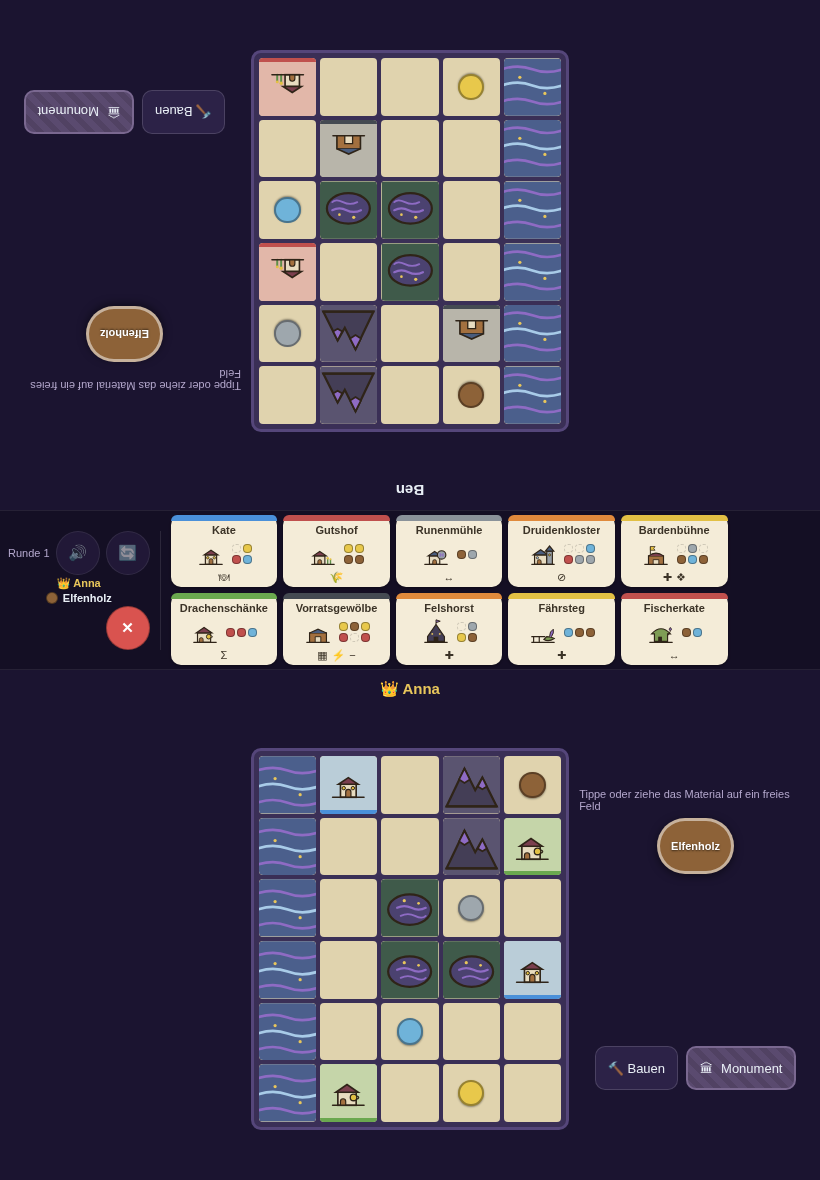
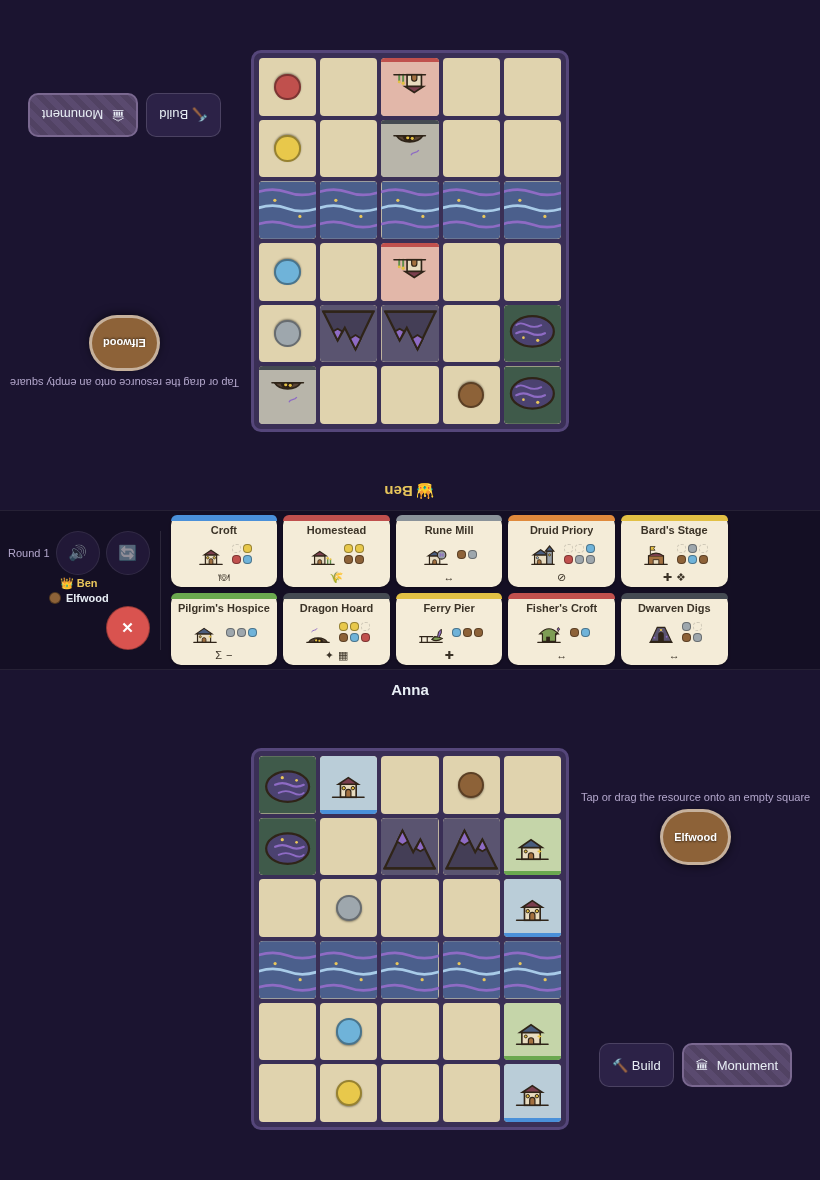
Englische README-Bilder, „Alice-Modus" heißt Detail-Modus (v4.2.0) (#96)
Zwei Sachen, die nicht zusammenpassten.

BILDER AUF ENGLISCH

Das README ist englisch, die Screenshots waren deutsch. scripts/shots.mjs
läuft jetzt mit locale 'en-US' und sucht die Bedienelemente über ihre
englischen Beschriftungen. Ein Kommentar im Kopf sagt, dass beides
zusammengehört — wer die Sprache ändert, muss die Beschriftungen mitziehen.

Alle sechs Bilder neu erzeugt: „Round 1", „Build", „Tap or drag the resource
onto an empty square", und die Auslage heißt Croft, Wishing Well,
Dragon Hoard — die Namen der Standard-Welt. Bildunterschriften im README
nachgezogen (die Anlieger-Karten im Landpartie-Bild heißen jetzt Ferry Pier,
Fisher's Croft, Dwarven Digs).

ALICE-MODUS → DETAIL-MODUS

Der Name war eine Anspielung, die niemandem etwas sagt; „Detail-Modus"
beschreibt, was der Schalter tut. Umbenannt in allen 8 Sprachen (inklusive
der Zeile im Lernmodus, die ihn erwähnt), dazu Variablen, CSS-Klassen und
die Selektoren in drei Smoke-Skripten.

Der localStorage-Schlüssel heißt jetzt tinytowns.detailMode. Wer den Modus
eingeschaltet hatte, behält ihn: Fehlt der neue Schlüssel, gilt der alte
(tinytowns.aliceMode), und beim ersten Umschalten wandert die Wahl auf den
neuen Schlüssel — der alte wird entfernt.

Geprüft: 390 Tests, svelte-check, Build, alle drei Smoke-Tests. Neuer
Smoke-Block prüft die Migration: alte Einstellung wirkt, Beschriftung stimmt,
Umschalten schreibt den neuen und räumt den alten Schlüssel weg. Gegenprobe
[…]

diff --git a/src/ui/CardStrip.svelte b/src/ui/CardStrip.svelte
@@ -36,30 +36,34 @@
     return t.trainTunnel;
   });
 
-  // Alice-Modus (Einzelansicht): alle Karten dauerhaft samt Beschreibung offen,
-  // damit niemand jede Karte einzeln antippen muss. Reine Anzeige-Präferenz
-  // dieses Geräts — sie überlebt Reloads im localStorage.
-  const ALICE_KEY = 'tinytowns.aliceMode';
-  let alice = $state(readAlice());
+  // Detail-Modus (Einzelansicht): alle Karten dauerhaft samt Beschreibung
+  // offen, damit niemand jede Karte einzeln antippen muss. Reine
+  // Anzeige-Präferenz dieses Geräts — sie überlebt Reloads im localStorage.
+  const DETAIL_KEY = 'tinytowns.detailMode';
+  /** Frühere Fassungen nannten den Modus „Alice" — alte Wahl weiter achten. */
+  const ALT_KEY = 'tinytowns.aliceMode';
+  let detail = $state(readDetail());
 
-  function readAlice(): boolean {
+  function readDetail(): boolean {
     try {
-      return localStorage.getItem(ALICE_KEY) === '1';
+      const wert = localStorage.getItem(DETAIL_KEY) ?? localStorage.getItem(ALT_KEY);
+      return wert === '1';
     } catch {
       return false;
     }
   }
 
-  function toggleAlice() {
-    alice = !alice;
+  function toggleDetail() {
+    detail = !detail;
     try {
-      localStorage.setItem(ALICE_KEY, alice ? '1' : '0');
+      localStorage.setItem(DETAIL_KEY, detail ? '1' : '0');
+      localStorage.removeItem(ALT_KEY); // ab jetzt gilt nur noch der neue Schlüssel
     } catch {
       // privater Modus — gilt dann nur für diese Sitzung
     }
   }
 
-  const aliceOn = $derived(solo && alice);
+  const detailOn = $derived(solo && detail);
 
   // Kartenauslage um 180° drehen — für die Spieler auf der Gegenseite des
   // Geräts. Reine Anzeige-Präferenz dieses Geräts, überlebt Reloads.
@@ -150,13 +154,13 @@
       <span class="trainWhere">{trainStatus}</span>
     {/if}
     {#if solo}
-      <button class="aliceBtn" class:active={alice} onpointerup={toggleAlice} title={t.aliceModeHint}>
-        📖 <span class="btnLabel">{t.aliceMode}</span>
+      <button class="detailBtn" class:active={detail} onpointerup={toggleDetail} title={t.detailModeHint}>
+        📖 <span class="btnLabel">{t.detailMode}</span>
       </button>
       {#if st.config.solo}
         <!-- Lernmodus: nur im Solospiel, dort führen die Blasen durch die Phasen -->
         <button
-          class="aliceBtn"
+          class="detailBtn"
           class:active={learn.enabled}
           onpointerup={() => learn.toggle()}
           title={t.learn.modeHint}
@@ -169,13 +173,13 @@
          Kopfzeile, nicht neben dem Spielernamen. -->
     <button class="abort quit iconBtn" onpointerup={() => onabort?.()} title={t.abortGame}>✕</button>
   </div>
-  <div class="cards" class:alice={aliceOn} class:flipped={flipped && !solo} class:many={cardIds.length > 8}>
+  <div class="cards" class:detail={detailOn} class:flipped={flipped && !solo} class:many={cardIds.length > 8}>
     {#each cardIds as id}
       <div class="cardWrap">
         <CardMini
           card={catalog[id]}
           compact={compactCards}
-          description={aliceOn ? cardText(catalog[id]) : ''}
+          description={detailOn ? cardText(catalog[id]) : ''}
           onclick={(e) => open(catalog[id], e)}
         />
       </div>
@@ -320,7 +324,7 @@
     .strip.soloStrip.horizontal .cardWrap { width: calc(25% - 5px); }
     /* Mehr als 8 Karten (Monument als 9.): eine Reihe, seitlich scrollbar —
        drei Umbruch-Reihen würden das Brett aus dem Bildschirm schieben */
-    .strip.soloStrip.horizontal .cards.many:not(.alice) {
+    .strip.soloStrip.horizontal .cards.many:not(.detail) {
       flex-wrap: nowrap;
       justify-content: flex-start;
       overflow-x: auto;
@@ -331,7 +335,7 @@
       min-width: 0;
       align-self: stretch;
     }
-    .strip.soloStrip.horizontal .cards.many:not(.alice) .cardWrap {
+    .strip.soloStrip.horizontal .cards.many:not(.detail) .cardWrap {
       flex: 0 0 calc(25% - 5px);
       min-width: 0;
     }
@@ -340,7 +344,7 @@
   /* Tablet-Hochformat (2 Spieler / Einzelansicht): genug Höhe — Karten
      umbrechen lassen statt horizontal zu scrollen */
   @media (orientation: portrait) and (min-height: 900px) {
-    .strip.horizontal .cards:not(.alice) {
+    .strip.horizontal .cards:not(.detail) {
       flex-wrap: wrap;
       justify-content: flex-start;
       row-gap: 6px;
@@ -348,8 +352,8 @@
     }
   }
 
-  /* Alice-Modus: Karten samt Beschreibung dauerhaft offen (Einzelansicht) */
-  .aliceBtn {
+  /* Detail-Modus: Karten samt Beschreibung dauerhaft offen (Einzelansicht) */
+  .detailBtn {
     font-size: var(--fs-xs);
     padding: 3px 10px;
     opacity: 0.7;
@@ -361,12 +365,12 @@
   @media (max-width: 720px), (max-height: 540px) {
     .btnLabel { display: none; }
   }
-  .aliceBtn.active {
+  .detailBtn.active {
     opacity: 1;
     border-color: var(--accent);
     color: var(--accent);
   }
-  .strip.horizontal .cards.alice {
+  .strip.horizontal .cards.detail {
     /* Raster statt Flex: grid-auto-rows 1fr macht alle Karten gleich hoch */
     display: grid;
     grid-template-columns: repeat(4, minmax(0, 1fr));
@@ -381,26 +385,26 @@
        bei Bedarf scrollt das Kartenraster in sich */
     max-height: 36vh;
   }
-  .strip.horizontal .cards.alice .cardWrap {
+  .strip.horizontal .cards.detail .cardWrap {
     width: auto;
     display: flex; /* Karte füllt die Rasterzelle in voller Höhe */
   }
   /* Mehr als 8 Karten (Monument als 9.): 5 Spalten statt 4 — das Raster
      bleibt bei maximal 2 Zeilen und schiebt das Brett nicht aus dem Bild */
-  .strip.horizontal .cards.alice.many {
+  .strip.horizontal .cards.detail.many {
     grid-template-columns: repeat(5, minmax(0, 1fr));
     width: min(100%, 1100px);
   }
   @media (max-width: 720px) and (orientation: portrait) {
     /* Am Handy: zwei Spalten, Leiste fest gedeckelt und in sich scrollbar —
        das Spielbrett darunter muss immer erreichbar bleiben */
-    .strip.soloStrip.horizontal .cards.alice {
+    .strip.soloStrip.horizontal .cards.detail {
       grid-template-columns: repeat(2, minmax(0, 1fr));
       gap: 5px;
       /* Deckel: Der Rest des Bildschirms gehört Brett und Knöpfen. Die Karten
          scrollen in sich — seit touch-action das auch zulässt. */
       max-height: 28vh;
     }
-    .strip.soloStrip.horizontal .cards.alice .cardWrap { width: auto; }
+    .strip.soloStrip.horizontal .cards.detail .cardWrap { width: auto; }
   }
 </style>

diff --git a/src/i18n/fr.ts b/src/i18n/fr.ts
@@ -145,8 +145,8 @@ export const fr: Translation = {
   shareFailed: 'Le partage a échoué',
   playAgain: 'Rejouer',
 
-  aliceMode: 'Mode Alice',
-  aliceModeHint: 'Afficher toutes les cartes avec leur texte en permanence',
+  detailMode: "Mode détaillé",
+  detailModeHint: "Afficher toutes les cartes avec leur texte en permanence",
   flipCards: 'Tourner les cartes pour le côté opposé',
 
   townHallMode: 'Mode Hôtel de ville',
@@ -310,7 +310,7 @@ export const fr: Translation = {
     guestSteps: [
       'Scanne le code QR ou saisis le code du salon, choisis un nom — ta place est attribuée automatiquement.',
       'Tu vois ton plateau en grand, les adversaires en petit ; ton monument est visible pour toi.',
-      '« 📖 Mode Alice » affiche toutes les cartes avec leur texte en permanence.',
+      "« 📖 Mode détaillé » affiche toutes les cartes avec leur texte en permanence.",
       'Absent un instant ou rechargé ? L’appli rejoint automatiquement. Sinon : réveille l’appareil hôte ou fais-y réattribuer la place.'
     ]
   },

diff --git a/src/i18n/es.ts b/src/i18n/es.ts
@@ -145,8 +145,8 @@ export const es: Translation = {
   shareFailed: 'No se pudo compartir',
   playAgain: 'Jugar otra vez',
 
-  aliceMode: 'Modo Alice',
-  aliceModeHint: 'Mostrar todas las cartas con su texto permanentemente',
+  detailMode: "Modo detalle",
+  detailModeHint: "Mostrar todas las cartas con su texto permanentemente",
   flipCards: 'Girar las cartas hacia el lado opuesto',
 
   townHallMode: 'Modo Ayuntamiento',
@@ -310,7 +310,7 @@ export const es: Translation = {
     guestSteps: [
       'Escanea el QR o escribe el código de sala, elige un nombre — tu asiento se asigna automáticamente.',
       'Ves tu tablero en grande y a los rivales en pequeño; tu monumento está visible para ti.',
-      '«📖 Modo Alice» muestra todas las cartas con su texto permanentemente.',
+      "«📖 Modo detalle» muestra todas las cartas con su texto permanentemente.",
       '¿Te fuiste un momento o recargaste? La app se reincorpora sola. Si no: despierta el dispositivo anfitrión o reasigna el asiento allí.'
     ]
   },

diff --git a/src/i18n/pt.ts b/src/i18n/pt.ts
@@ -145,8 +145,8 @@ export const pt: Translation = {
   shareFailed: 'Não foi possível partilhar',
   playAgain: 'Jogar de novo',
 
-  aliceMode: 'Modo Alice',
-  aliceModeHint: 'Mostrar sempre todas as cartas com o texto',
+  detailMode: "Modo detalhe",
+  detailModeHint: "Mostrar todas as cartas com o seu texto permanentemente",
   flipCards: 'Girar as cartas para o lado oposto',
 
   townHallMode: 'Modo Câmara Municipal',
@@ -310,7 +310,7 @@ export const pt: Translation = {
     guestSteps: [
       'Lê o QR ou escreve o código da sala, escolhe um nome — o teu lugar é atribuído automaticamente.',
       'Vês o teu tabuleiro em grande e os adversários em pequeno; o teu monumento está visível para ti.',
-      '«📖 Modo Alice» mostra sempre todas as cartas com o texto.',
+      "«📖 Modo detalhe» mostra todas as cartas com o seu texto permanentemente.",
       'Ausente por instantes ou recarregado? A app volta a entrar sozinha. Se falhar: acorda o dispositivo anfitrião ou reatribui lá o lugar.'
     ]
   },

diff --git a/src/i18n/it.ts b/src/i18n/it.ts
@@ -145,8 +145,8 @@ export const it: Translation = {
   shareFailed: 'Condivisione non riuscita',
   playAgain: 'Gioca ancora',
 
-  aliceMode: 'Modalità Alice',
-  aliceModeHint: 'Mostra sempre tutte le carte con il loro testo',
+  detailMode: "Modalità dettaglio",
+  detailModeHint: "Mostra sempre tutte le carte con il loro testo",
   flipCards: 'Ruotare le carte verso il lato opposto',
 
   townHallMode: 'Modalità Municipio',
@@ -310,7 +310,7 @@ export const it: Translation = {
     guestSteps: [
       'Scansiona il QR o digita il codice stanza, scegli un nome — il posto arriva automaticamente.',
       'Vedi la tua plancia in grande e gli avversari in piccolo; il tuo monumento è visibile per te.',
-      '«📖 Modalità Alice» mostra sempre tutte le carte con il testo.',
+      "«📖 Modalità dettaglio» mostra sempre tutte le carte con il testo.",
       'Assente un attimo o ricaricato? L’app rientra da sola. Se non funziona: sveglia il dispositivo host o fai riassegnare lì il posto.'
     ]
   },

diff --git a/src/i18n/pl.ts b/src/i18n/pl.ts
@@ -145,8 +145,8 @@ export const pl: Translation = {
   shareFailed: 'Udostępnianie nie powiodło się',
   playAgain: 'Zagraj ponownie',
 
-  aliceMode: 'Tryb Alice',
-  aliceModeHint: 'Pokazuj stale wszystkie karty z opisem',
+  detailMode: "Tryb szczegółów",
+  detailModeHint: "Pokazuj stale wszystkie karty z opisem",
   flipCards: 'Obróć karty w stronę przeciwną',
 
   townHallMode: 'Tryb Ratusza',
@@ -310,7 +310,7 @@ export const pl: Translation = {
     guestSteps: [
       'Zeskanuj kod QR lub wpisz kod pokoju, wybierz imię — miejsce dostaniesz automatycznie.',
       'Widzisz swoją planszę dużą, przeciwników małych; twój monument leży dla ciebie odkryty.',
-      '„📖 Tryb Alice” pokazuje stale wszystkie karty z opisem.',
+      "„📖 Tryb szczegółów\" stale pokazuje wszystkie karty z opisem.",
       'Chwila przerwy albo przeładowanie? Aplikacja dołącza ponownie sama. Jeśli nie: obudź urządzenie gospodarza lub tam przydziel miejsce od nowa.'
     ]
   },

diff --git a/src/i18n/de.ts b/src/i18n/de.ts
@@ -145,8 +145,8 @@ export const de = {
   shareFailed: 'Teilen hat nicht geklappt',
   playAgain: 'Neue Partie',
 
-  aliceMode: 'Alice-Modus',
-  aliceModeHint: 'Alle Karten dauerhaft mit Beschreibung zeigen',
+  detailMode: "Detail-Modus",
+  detailModeHint: "Alle Karten dauerhaft mit Beschreibung zeigen",
   flipCards: 'Kartenauslage für die Gegenseite drehen',
 
   townHallMode: 'Rathaus-Modus',
@@ -310,7 +310,7 @@ export const de = {
     guestSteps: [
       'QR-Code scannen oder Raum-Code eintippen, Namen wählen — dein Platz kommt automatisch.',
       'Du siehst dein Brett groß, die Gegner klein; dein Monument liegt für dich offen.',
-      '„📖 Alice-Modus" zeigt alle Karten dauerhaft mit Beschreibung.',
+      "„📖 Detail-Modus\" zeigt alle Karten dauerhaft mit Beschreibung.",
       'Kurz weg oder neu geladen? Die App tritt automatisch wieder bei. Klappt es nicht: Host-Gerät wecken oder dort den Platz neu vergeben lassen.'
     ]
   },

diff --git a/src/i18n/en.ts b/src/i18n/en.ts
@@ -145,8 +145,8 @@ export const en: Translation = {
   shareFailed: 'Sharing did not work',
   playAgain: 'Play again',
 
-  aliceMode: 'Alice mode',
-  aliceModeHint: 'Show all cards with their text permanently',
+  detailMode: "Detail mode",
+  detailModeHint: "Show all cards with their text permanently",
   flipCards: 'Rotate the card display for the far side',
 
   townHallMode: 'Town Hall mode',
@@ -310,7 +310,7 @@ export const en: Translation = {
     guestSteps: [
       'Scan the QR code or type the room code, choose a name — your seat is assigned automatically.',
       'You see your board large and the opponents small; your monument lies open for you.',
-      '“📖 Alice mode” shows all cards with their text permanently.',
+      "“📖 Detail mode” shows all cards with their text permanently.",
       'Briefly away or reloaded? The app rejoins automatically. If it doesn’t: wake the host device or have it reassign the seat.'
     ]
   },

diff --git a/src/i18n/nl.ts b/src/i18n/nl.ts
@@ -145,8 +145,8 @@ export const nl: Translation = {
   shareFailed: 'Delen is niet gelukt',
   playAgain: 'Nog een keer',
 
-  aliceMode: 'Alice-modus',
-  aliceModeHint: 'Alle kaarten permanent met tekst tonen',
+  detailMode: "Detailmodus",
+  detailModeHint: "Alle kaarten permanent met tekst tonen",
   flipCards: 'Kaarten draaien voor de overkant',
 
   townHallMode: 'Stadhuis-modus',
@@ -310,7 +310,7 @@ export const nl: Translation = {
     guestSteps: [
       'Scan de QR-code of typ de kamercode, kies een naam — je plaats komt automatisch.',
       'Je ziet je eigen bord groot, de tegenstanders klein; je monument ligt voor jou open.',
-      '“📖 Alice-modus” toont alle kaarten permanent met tekst.',
+      "“📖 Detailmodus” toont alle kaarten permanent met tekst.",
       'Even weg of herladen? De app doet vanzelf weer mee. Lukt het niet: host-apparaat wekken of daar de plaats opnieuw laten toewijzen.'
     ]
   },

diff --git a/src/store/playerNames.ts b/src/store/playerNames.ts
@@ -2,7 +2,7 @@
 //
 // Wer zu Hause immer mit denselben Leuten spielt, soll die Namen einmal
 // eintippen und nicht jedes Mal wieder. Wie die anderen Präferenzen
-// (Ton, Thema, Alice-, Lernmodus) liegen sie im localStorage und gehören zum
+// (Ton, Thema, Detail-, Lernmodus) liegen sie im localStorage und gehören zum
 // Gerät, nicht zum Spielstand — die Engine weiß nichts davon.
 //
 // `sanitize` ist rein und ohne Browser-Abhängigkeit, damit es geprüft werden

diff --git a/src/ui/learn.svelte.ts b/src/ui/learn.svelte.ts
@@ -1,4 +1,4 @@
-// Lernmodus: Anzeige-Präferenz dieses Geräts (wie Alice-Modus und Ton) plus
+// Lernmodus: Anzeige-Präferenz dieses Geräts (wie Detail-Modus und Ton) plus
 // die Merkliste der weggetippten Erklärblasen. Der Spielzustand bleibt davon
 // unberührt — die Engine weiß nichts vom Lernmodus.
 

diff --git a/src/ui/CardMini.svelte b/src/ui/CardMini.svelte
@@ -16,7 +16,7 @@
     onclick?: (e: PointerEvent) => void;
     badge?: string;
     compact?: boolean;
-    /** Alice-Modus: Kartentext direkt auf der Karte anzeigen. */
+    /** Detail-Modus: Kartentext direkt auf der Karte anzeigen. */
     description?: string;
   } = $props();
 </script>
